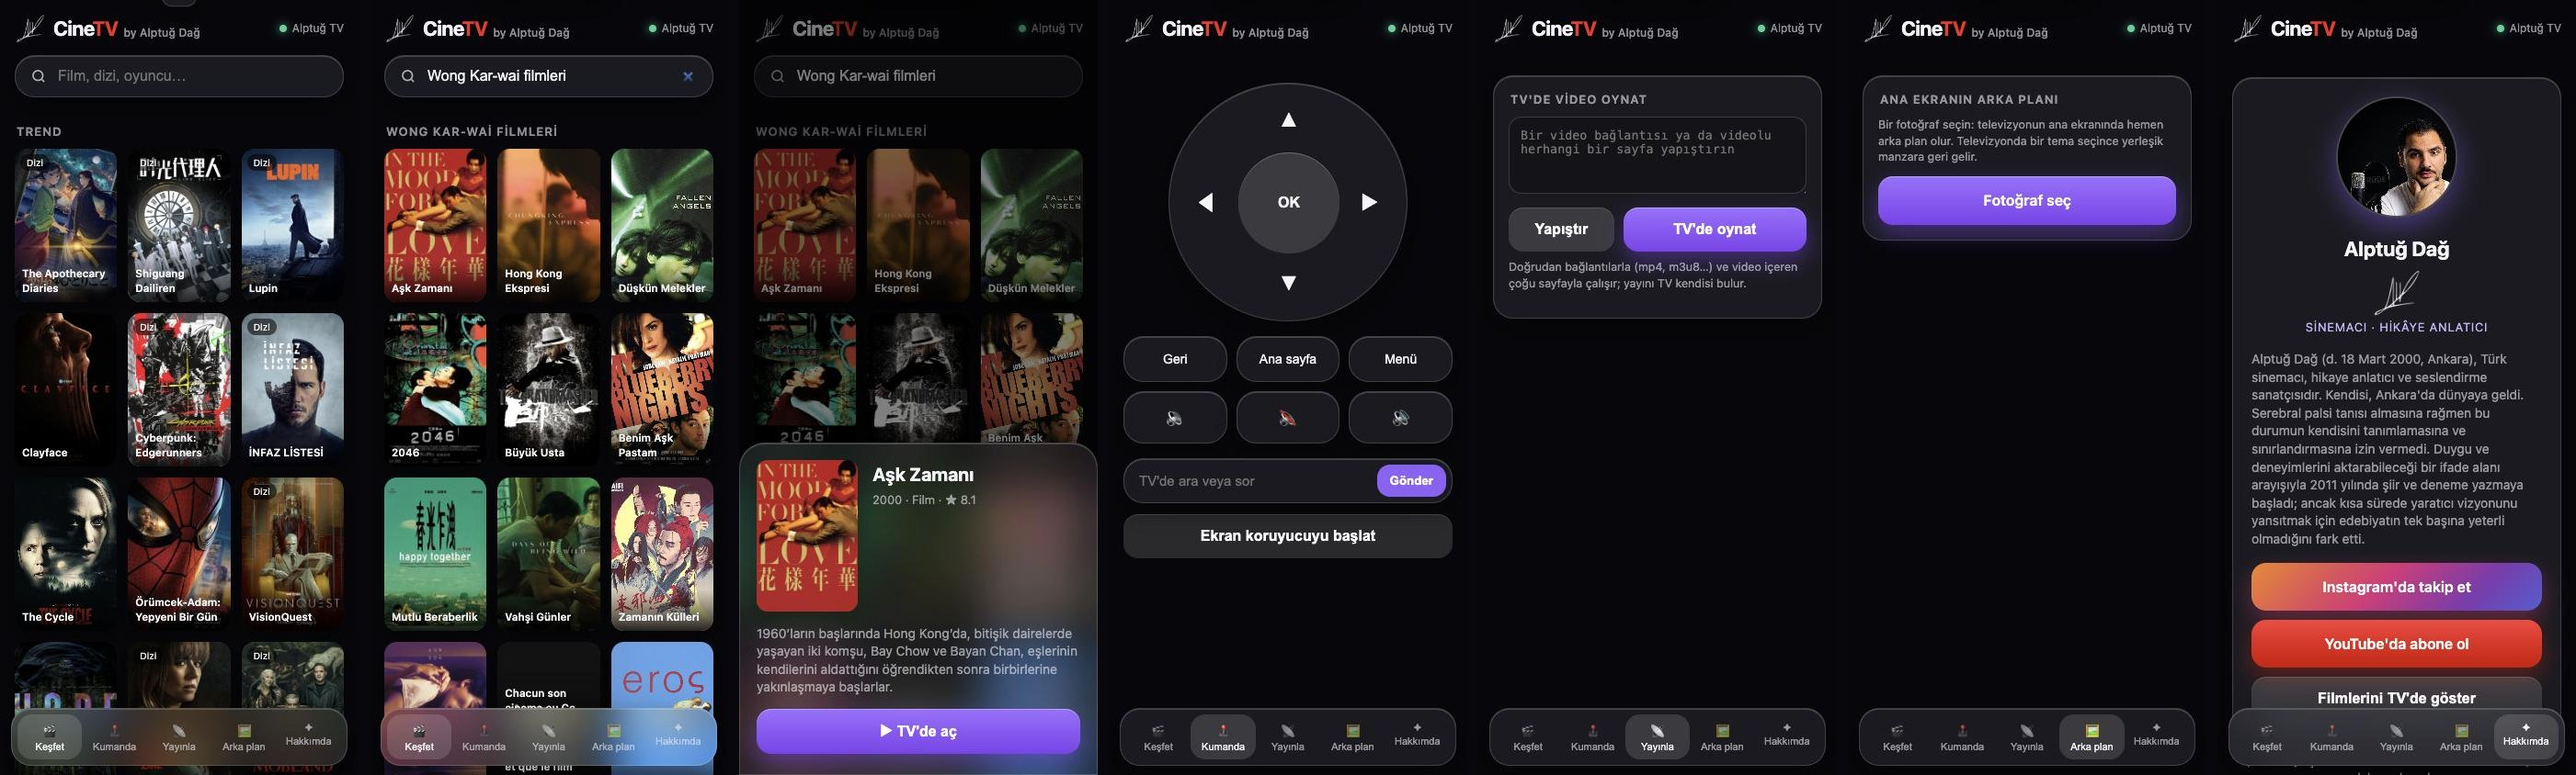
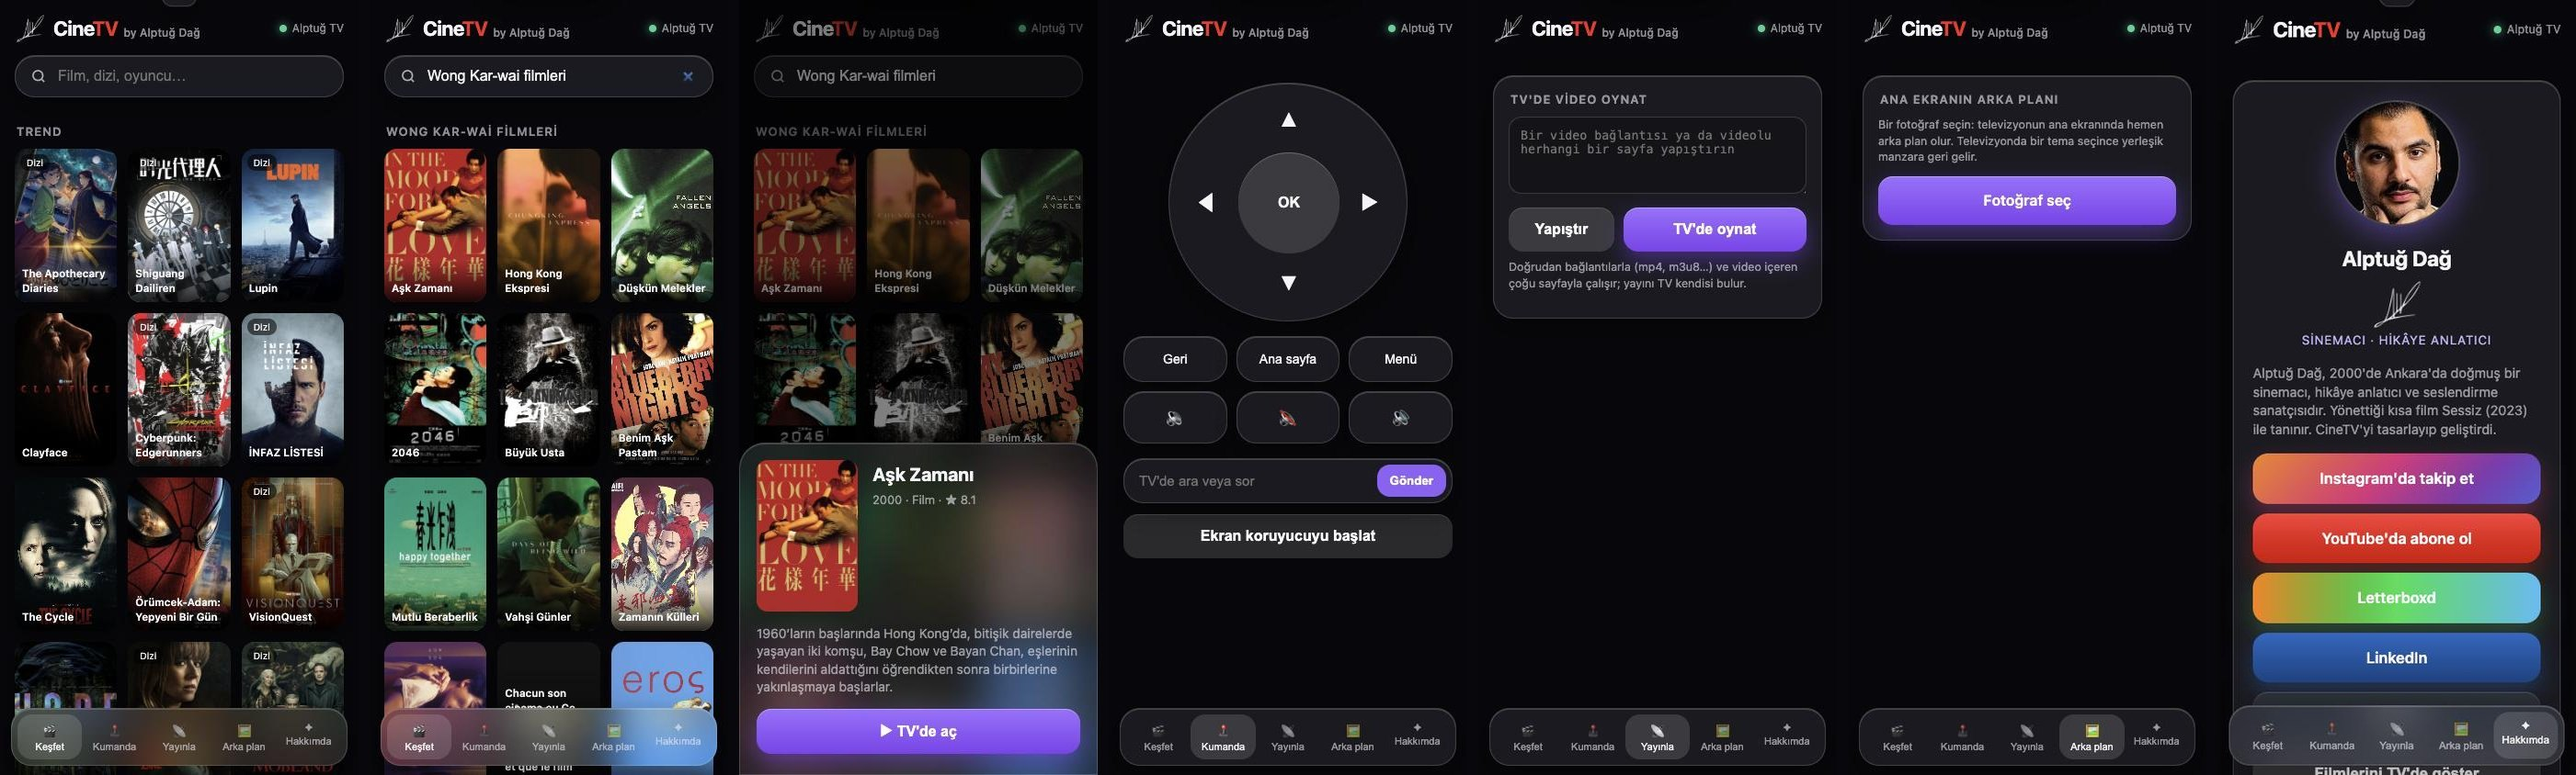
Turkish profiles get all of Anthology (paid-channel plugins left for the viewer to switch on); new keyboard, settings and phone About images

Changed region(s): [[0.8694, 0.0924, 1.0, 1.0], [0.8694, 0.0308, 0.9315, 0.0616], [0.9625, 0.0308, 0.9936, 0.0616]]

diff --git a/scripts/personalize.py b/scripts/personalize.py
@@ -20,7 +20,6 @@ import re
 import subprocess
 import sys
 import time
-import urllib.request
 
 HERE = os.path.dirname(os.path.abspath(__file__))
 QUESTIONS = os.path.join(HERE, "personalize", "questions.json")
@@ -68,6 +67,28 @@ ADDON_NAMES = {"torrentio": "Torrentio", "opensubtitles": "OpenSubtitles", "tr_a
                "anime_kitsu": "Anime Kitsu", "youtube": "YouTube", "top10": "Netflix Top 10", "channels": "NexoTV"}
 NEXOTV = "https://263f84288ddb-nexotv.baby-beamup.club"
 ANTHOLOGY = "https://raw.githubusercontent.com/falsisdev/anthology/main/manifest.json"
+# Paid channels restreamed without the broadcaster's permission: never switched on
+ANTHOLOGY_SKIP = ("Anthology Canlı Spor", "Anthology Sinema Kanalları")
+
+
+def fetch_json(url, body=None):
+    """JSON over HTTPS through curl: python.org's macOS Python often has no root certificates."""
+    cmd = ["curl", "-fsSL", "-m", "30", url]
+    if body is not None:
+        cmd[1:1] = ["-X", "POST", "-H", "Content-Type: application/json", "--data-binary", json.dumps(body)]
+    out = subprocess.run(cmd, capture_output=True, text=True, timeout=40)
+    if out.returncode != 0:
+        raise RuntimeError(out.stderr.strip() or "curl failed")
+    return json.loads(out.stdout)
+
+
+def anthology_plugins():
+    """Every plugin in Anthology's repository today (so new ones come along), without ANTHOLOGY_SKIP."""
+    try:
+        names = [x.get("name", "") for x in fetch_json(ANTHOLOGY).get("scrapers", [])]
+        return [n for n in names if n and n not in ANTHOLOGY_SKIP]
+    except Exception:
+        return None
 
 
 def load_questions():
@@ -320,17 +341,20 @@ def plan_for(p, data):
                 free.append("Anthology Müzik & Eğlence")
             plugins += free
 
-    # Turkish series and films from official archives (channel archives, official YouTube, puhutv)
+    # Every Turkish-speaking profile gets all of Anthology (films, series, anime, channels, archives);
+    # others who watch Turkish titles get its official archives
+    anthology_all = lang == "tr"
     origins = [country if o == "@home" else o for o in as_list(p.get("series_origins")) + as_list(p.get("film_origins"))]
-    turkish = "TR" in origins
-    if turkish or (lang == "tr" and any(x in loves for x in ("series", "films"))):
+    if anthology_all:
+        plugins = anthology_plugins() or plugins
+    elif "TR" in origins:
         plugins += ["Anthology Dizi", "YouTube Dizi & Film", "PuhuTV"]
     plugins = list(dict.fromkeys(plugins))
 
     collections = build_collections(p, data, texts, country, main)
 
     # Only the apps this person will open
-    apps = ["nuvio"] if addons or collections else []
+    apps = ["nuvio"] if addons or collections or plugins or anthology_all else []
     if "youtube" in loves:
         apps.append("youtube")
     if p.get("cast", "y") == "y":
@@ -340,7 +364,7 @@ def plan_for(p, data):
     skipped = [a for a in ("nuvio", "youtube", "nova", "airplay") if a not in apps]
     return {"lang": lang, "ui": texts.ui, "iso": iso, "country": country, "city": p.get("city") or "",
             "main": main, "addons": addons, "channels": channels, "plugins": plugins, "follow": follow,
-            "subs": subs, "autoplay": p.get("autoplay", "y") == "y", "collections": collections,
+            "anthology_all": anthology_all, "subs": subs, "autoplay": p.get("autoplay", "y") == "y", "collections": collections,
             "apps": apps, "skipped": skipped, "notes": p.get("notes") or ""}
 
 
@@ -478,7 +502,9 @@ def describe(plan, data):
             lines.append("      " + c["title"] + ": " + ", ".join(f["title"] for f in c["folders"]))
     if plan["addons"]:
         lines.append("  • " + texts("plan_addons", list=", ".join(ADDON_NAMES[a] for a, _ in plan["addons"])))
-    if plan["plugins"]:
+    if plan["anthology_all"]:
+        lines.append("  • " + texts("plan_anthology", n=len(plan["plugins"]) or "", skip=", ".join(ANTHOLOGY_SKIP)))
+    elif plan["plugins"]:
         lines.append("  • " + texts("plan_plugins", list=", ".join(plan["plugins"])))
     if plan["follow"]:
         lines.append("  • " + texts("plan_youtube", list=", ".join(plan["follow"])))
@@ -492,9 +518,7 @@ def describe(plan, data):
 # ---- applying it to the TV -----------------------------------------------------------------------
 
 def channels_url(config):
-    req = urllib.request.Request(NEXOTV + "/encrypt", data=json.dumps(config).encode(), headers={"Content-Type": "application/json"})
-    with urllib.request.urlopen(req, timeout=30) as r:
-        token = json.load(r)["token"]
+    token = fetch_json(NEXOTV + "/encrypt", config)["token"]
     return ADDONS["channels"].format(config=token)
 
 
@@ -537,7 +561,9 @@ def apply(plan, data, out_dir):
             tv("am", "broadcast", "-a", "android.intent.action.MEDIA_SCANNER_SCAN_FILE", "-d", "file:///sdcard/Download/nuvio-collections.json")
 
     prefs = {"language": plan["lang"], "subtitles": plan["subs"], "autoplay_best_source": plan["autoplay"],
-             "plugin_repository": ANTHOLOGY if plan["plugins"] else None, "plugins_to_enable": plan["plugins"],
+             "plugin_repository": ANTHOLOGY if plan["plugins"] or plan["anthology_all"] else None,
+             "plugins_to_enable": "all except plugins_to_leave_off" if plan["anthology_all"] and not plan["plugins"] else plan["plugins"],
+             "plugins_to_leave_off": list(ANTHOLOGY_SKIP) if plan["plugins"] or plan["anthology_all"] else [],
              "youtube_follow": plan["follow"], "collections_file": "/sdcard/Download/nuvio-collections.json" if plan["collections"] else None,
              "notes": plan["notes"]}
     with open(os.path.join(out_dir, "nuvio-preferences.json"), "w", encoding="utf-8") as f:
@@ -547,7 +573,9 @@ def apply(plan, data, out_dir):
         print("\n" + texts("steps"))
         if plan["collections"]:
             print("  1. " + texts("import_rows"))
-        if plan["plugins"]:
+        if plan["anthology_all"]:
+            print("  2. " + texts("step_repo_all", url=ANTHOLOGY, skip=", ".join(ANTHOLOGY_SKIP)))
+        elif plan["plugins"]:
             print("  2. " + texts("step_repo", url=ANTHOLOGY, list=", ".join(plan["plugins"])))
         print("  3. " + texts("step_subs", list=", ".join(plan["subs"]), auto=texts("yes") if plan["autoplay"] else texts("no")))
         if plan["follow"]:

diff --git a/README.md b/README.md
@@ -33,6 +33,10 @@ around 25 questions, most with an answer ready, asked in the terminal or by an A
 - **Sports fans**: films, series and documentaries about their sports, and highlights and goals from the
   teams' official channels inside Nuvio.
 - **Live channels**: free public channels of the kinds and countries you choose.
+- **Turkish-speaking viewers** get all of [Anthology](https://github.com/falsisdev/anthology) in Nuvio:
+  films, series, anime, national, news, documentary, kids' and music channels, and official archives.
+  Its two plugins that carry paid channels (*Anthology Canlı Spor*, *Anthology Sinema Kanalları*) are left
+  off by the installer; they can only be switched on by hand, in *Nuvio › Settings › Plugins*.
 - **Only the apps you need**: AirPlay only in iPhone homes, Nova only if you cast from your phone, YouTube
   only if you watch it.
 
@@ -250,6 +254,9 @@ server, casting and HTTPS, `device/` keys, picture and sound, network, memory, A
 dizi kökenleri, anime, servisler, kalite, cihazlar), sonra sadece izleyeceklerini kurar: televizyonun dili,
 Nuvio eklentileri ve sana özel raflar (ör. sadece Türk dizileri, futbol belgeselleri, Kore dizileri), istersen
 ücretsiz canlı kanallar ve sadece ihtiyacın olan uygulamalar. Hiç izlemeyeceğin bir şey boşuna kurulmaz.
+Türkçe her profile Nuvio'da Anthology'nin tamamı gelir (film, dizi, anime, kanallar, resmi arşivler).
+Paralı kanalları taşıyan iki eklentisi (*Anthology Canlı Spor*, *Anthology Sinema Kanalları*) kurulumda kapalı
+kalır; bunlar yalnızca elle, *Nuvio › Ayarlar › Eklentiler* bölümünden açılabilir.
 
 Ayrıca:
 filmleriniz gerçek 3D DVD kutularından oluşan bir rafta; ne izlemek istediğinizi anlayan bir yapay zekâ

diff --git a/AGENTS.md b/AGENTS.md
@@ -51,7 +51,7 @@ What the answers change:
 
 | Answer | Effect on this TV |
 | :--- | :--- |
-| `lang` | the TV's language (its language screen opens if it differs), Nuvio's titles and plots, stream audio order, subtitle default |
+| `lang` | for Turkish: all of Anthology in Nuvio; the TV's language (its language screen opens if it differs), Nuvio's titles and plots, stream audio order, subtitle default |
 | `country`, `city` | weather and the shelf of the moment; which services' catalogues and free channels match; Netflix Top 10 of that country |
 | `household`, `kids_ages` | kids' series and family films rows (animated for under-9s) |
 | `loves`, `main` | which rows, addons and apps exist at all; `main` comes first and is pinned |
@@ -112,8 +112,9 @@ Read `nuvio-preferences.json`, open Nuvio (`adb shell monkey -p com.nuvio.tv 1`)
    `nuvio-collections.json` from Downloads. The person's rows appear on Nuvio's home, the main interest
    pinned first.
 2. **Plugins** (`plugin_repository`, `plugins_to_enable`): *Settings › Plugins › Add repository*, paste the
-   URL, then switch on **only** the plugins listed. Leave every other plugin off; never switch on paid
-   channels' restreams (for example "Anthology Canlı Spor").
+   URL, then switch on the plugins listed (for Turkish-speaking profiles: every Anthology plugin). Leave
+   `plugins_to_leave_off` off ("Anthology Canlı Spor", "Anthology Sinema Kanalları": they carry paid
+   channels); only the person may switch those on, by hand.
 3. **Playback**: subtitle languages from `subtitles`, in that order; *autoplay the best source* from
    `autoplay_best_source`.
 4. **YouTube** (`youtube_follow`): in Nuvio's YouTube, search each name, open its official channel and add
